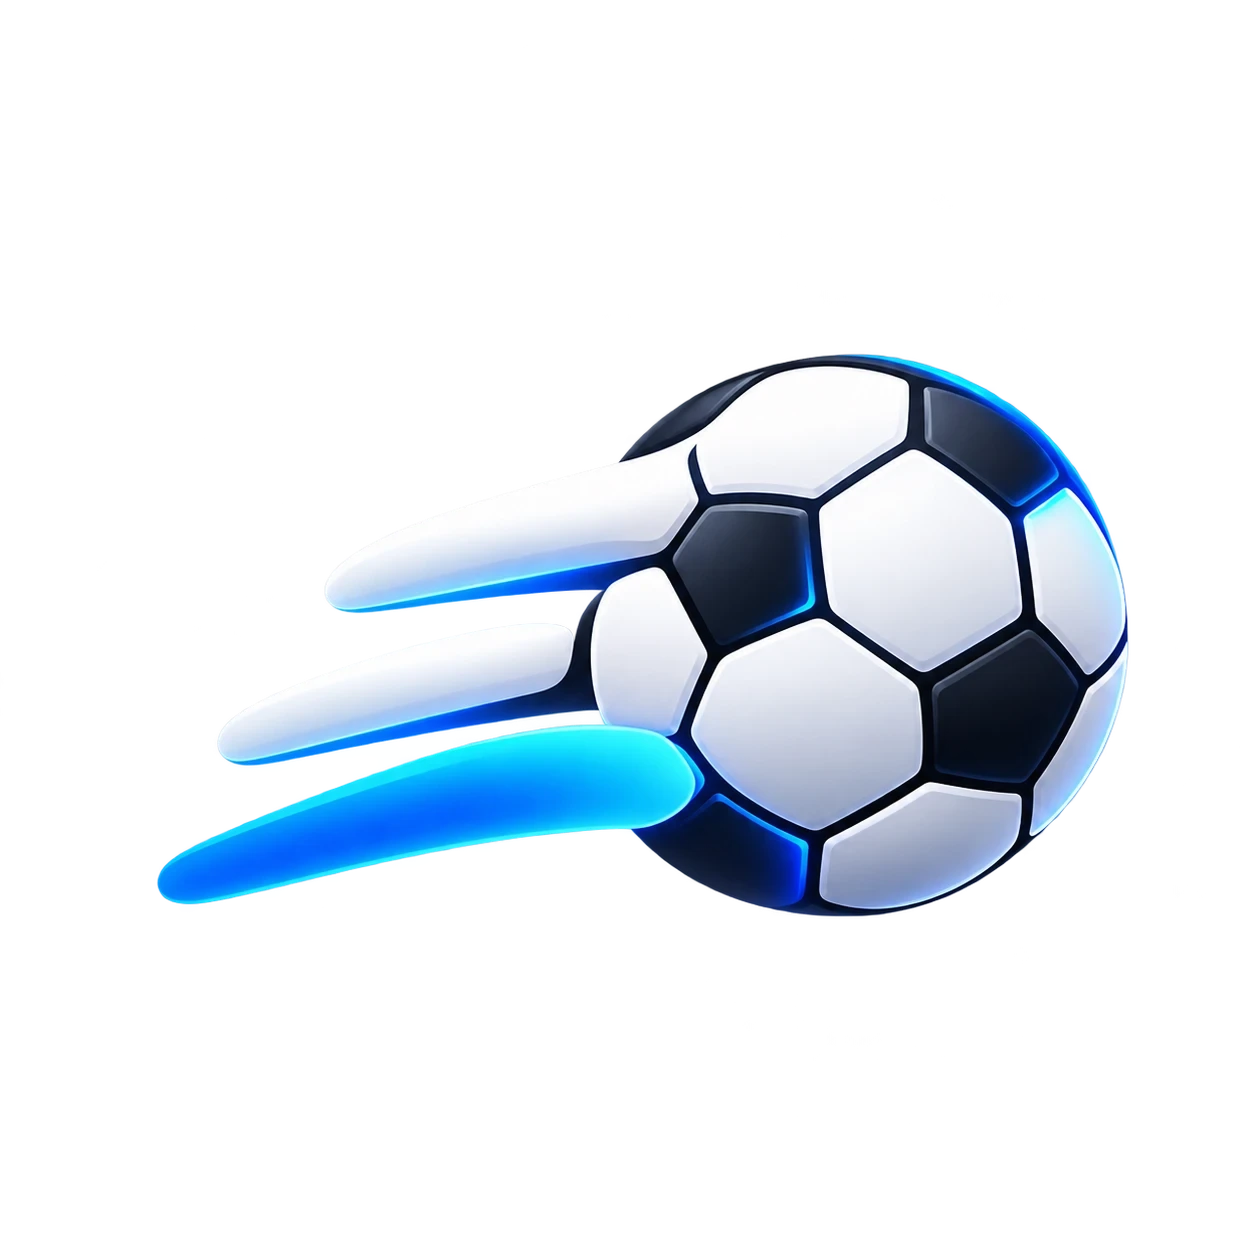
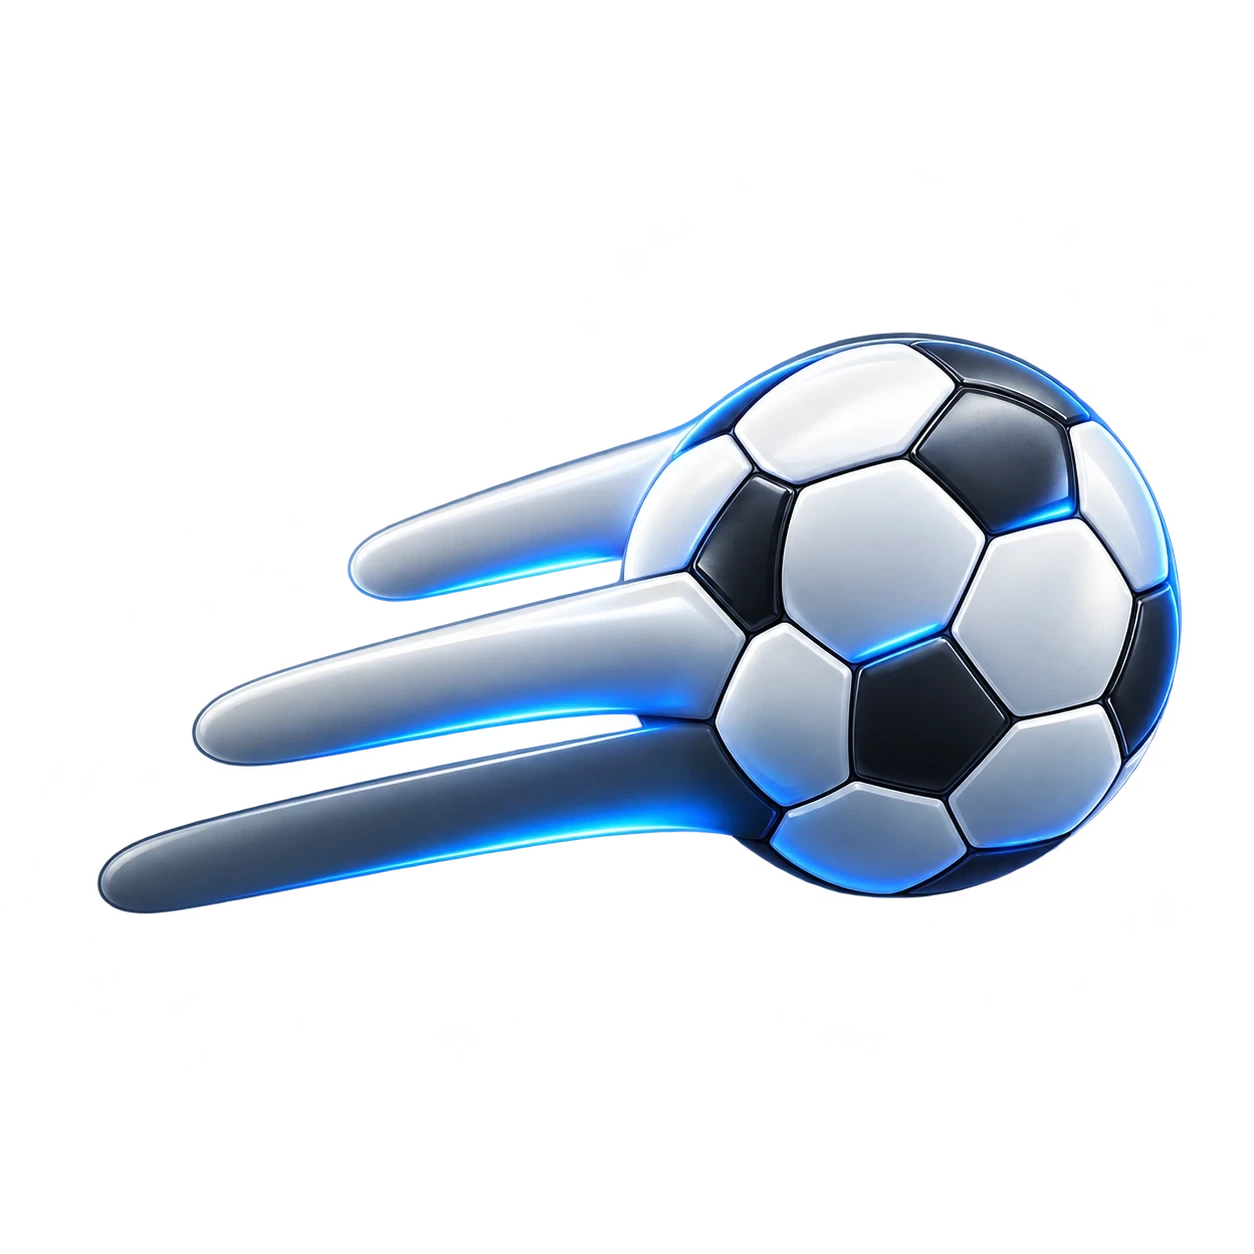
Barra in basso con le icone disegnate per Alex: Oggi, Mappa, + d'ottone, Sport, Esplora
Claude-Session: https://claude.ai/code/session_01NPons2JwHMxEPqWQkYyk7h

Changed region(s): [[0.0622, 0.2488, 0.9641, 0.7464]]

diff --git a/components/Icona.tsx b/components/Icona.tsx
@@ -173,12 +173,14 @@ const LINEARI = new Set<NomeIcona>(["freccia", "avanti", "vai", "piu", "cerca", 
 
 // Icone piatte disegnate per Alex (ottobre 2026) per quattro aree e la mappa: prendono il posto di Phosphor.
 // Due maschere in public/icone (node scripts/icone-aree.mjs): la base prende il colore del testo, l'accento resta blu.
-const PROPRIE = new Set<NomeIcona>(["vivere", "uscire", "comunita", "lavorare", "mappa"]);
+const PROPRIE = new Set<NomeIcona>(["vivere", "uscire", "comunita", "lavorare"]);
 
 // Icone a colori disegnate per Alex (ottobre 2026, stile 3D): si usano così come sono, in public/icone-colore
 // (node scripts/icone-colore.mjs). Più nomi possono usare lo stesso disegno.
 const COLORE: Partial<Record<NomeIcona, string>> = {
   sport: "sport",
+  home: "home",
+  mappa: "mappa",
   partite: "partite",
   tornei: "tornei",
   impianti: "impianti",

diff --git a/components/AzioniRapide.tsx b/components/AzioniRapide.tsx
@@ -32,9 +32,11 @@ export default function AzioniRapide() {
         aria-label="Azioni rapide"
         aria-haspopup="dialog"
         onClick={() => setAperto(true)}
-        className="-mt-4 grid size-14 place-items-center rounded-full bg-metallo text-su-accento ring-[5px] ring-fondo transition-transform duration-150 active:scale-90"
+        className="-mt-4 grid size-14 place-items-center rounded-full bg-fondo ring-[5px] ring-fondo transition-transform duration-150 active:scale-90"
       >
-        <Icona nome="piu" size={26} />
+        {/* Il + disegnato per Alex: un bottone d'ottone già pronto, si usa così com'è */}
+        {/* eslint-disable-next-line @next/next/no-img-element */}
+        <img src="/icone-colore/piu.webp" alt="" aria-hidden="true" width={56} height={56} draggable={false} className="size-14" />
       </button>
 
       {aperto ? (

diff --git a/CLAUDE.md b/CLAUDE.md
@@ -130,9 +130,9 @@ Tabelle: `castelli` (i 9 castelli con colore), `profili`, `luoghi`, `eventi`, `c
 - Ombre minime, vetro smerigliato (`backdrop-blur`) solo per barre e pannelli sopra mappe o immagini.
 - Caratteri: Geist (testi e titoli, titoli a peso 600, mai 700+) e Geist Mono (solo numeri: orari, metri, rating, conti alla rovescia, a peso 500). Caricati con `next/font` in `app/layout.tsx`.
 - Icone: solo Phosphor (`@phosphor-icons/react`), tramite `components/Icona.tsx` (nomi italiani). Stile scelto da Alex il 14/10/2026 su set di riferimento Flaticon ("Basic UI", "User Interface", "Essential UI"): icone **piene con angoli arrotondati**, cioè il peso `fill` di Phosphor, predefinito in `Icona`. Frecce, "+" e lente restano `bold` (piene diventerebbero triangoli o macchie). Nella barra in basso tutte le icone sono piene e la voce attiva si distingue per il colore. Mai disegnare icone SVG a mano; l'unico SVG fatto a mano è il logo. **Eccezione voluta da Alex (14/10/2026): icone disegnate per lui**, al posto di Phosphor nei loro nomi (`components/Icona.tsx`):
-  - **piatte, bianco e blu** (originali in `docs/icone/`: vivere, uscire, comunita, lavorare, mappa; insieme `PROPRIE`): `node scripts/icone-aree.mjs` le divide in due maschere in `public/icone/` (`<nome>-base.png` prende il colore del testo, bianca sul tema scuro e nera sul chiaro; `<nome>-accento.png` resta blu, `--icona-accento` #018EFD);
-  - **a colori, stile 3D** (seconda serie dello stesso giorno, originali in `docs/icone-colore/`; insieme `COLORE`): sport, partite, tornei, impianti, cerca, qr, calendario, eventi, esplora, persona, scuola, meteo, servizi, rifiuti, parcheggio, trasporti, farmacia, uffici, avvisi, giornale (per `storie` e `stampa`), numeri, coda. `node scripts/icone-colore.mjs` crea `public/icone-colore/<nome>.webp` (128 px); si usano così come sono, con un bordo leggero nel tema chiaro e spente (grigie) nella barra in basso quando la voce non è attiva (`.icona-colore` in `globals.css`). Nelle schede (`ActionCard`, + , aree) sono un po' più grandi delle Phosphor perché più dettagliate.
-  Una nuova si aggiunge mettendo l'originale nella cartella giusta, rilanciando lo script e aggiungendo il nome nell'insieme. Il blu vale solo dentro queste icone (Alex lo tiene così, 14/10/2026). Restano Phosphor tutte le altre (Oggi, frecce, telefono, indicazioni, sezioni di Uscire, Comunità e Lavorare…). Le icone Flaticon vere si possono usare solo se Alex le scarica col suo account (licenza e attribuzione).
+  - **piatte, bianco e blu** (originali in `docs/icone/`: vivere, uscire, comunita, lavorare; insieme `PROPRIE`): `node scripts/icone-aree.mjs` le divide in due maschere in `public/icone/` (`<nome>-base.png` prende il colore del testo, bianca sul tema scuro e nera sul chiaro; `<nome>-accento.png` resta blu, `--icona-accento` #018EFD);
+  - **a colori, stile 3D** (seconda serie dello stesso giorno, originali in `docs/icone-colore/`; insieme `COLORE`): home (Oggi), mappa, sport, partite, tornei, impianti, cerca, qr, calendario, eventi, esplora, persona, scuola, meteo, servizi, rifiuti, parcheggio, trasporti, farmacia, uffici, avvisi, giornale (per `storie` e `stampa`), numeri, coda. `node scripts/icone-colore.mjs` crea `public/icone-colore/<nome>.webp` (128 px); si usano così come sono, con un bordo leggero nel tema chiaro e spente (grigie) nella barra in basso quando la voce non è attiva (`.icona-colore` in `globals.css`). Nelle schede (`ActionCard`, + , aree) sono un po' più grandi delle Phosphor perché più dettagliate.
+  Una nuova si aggiunge mettendo l'originale nella cartella giusta, rilanciando lo script e aggiungendo il nome nell'insieme. Il blu vale solo dentro queste icone (Alex lo tiene così, 14/10/2026). Il + centrale della barra (`AzioniRapide`) è l'immagine `public/icone-colore/piu.webp` (bottone d'ottone già disegnato). Restano Phosphor tutte le altre (frecce, telefono, indicazioni, sezioni di Uscire, Comunità e Lavorare…). Le icone Flaticon vere si possono usare solo se Alex le scarica col suo account (licenza e attribuzione).
 - Regole "anti-AI" (dalle skill design-taste-frontend e redesign-existing-projects, applicate a ottobre 2026 su richiesta di Alex):
   - niente etichette maiuscole spaziate sopra i titoli (eyebrow); le uniche ammesse sono le diciture della Card SMR ID, come su una carta fisica;
   - niente puntini "·" come separatore nei testi visibili: virgole, "alle", due punti o a capo (i titoli delle schede del browser restano "Pagina · 739 San Marino");
